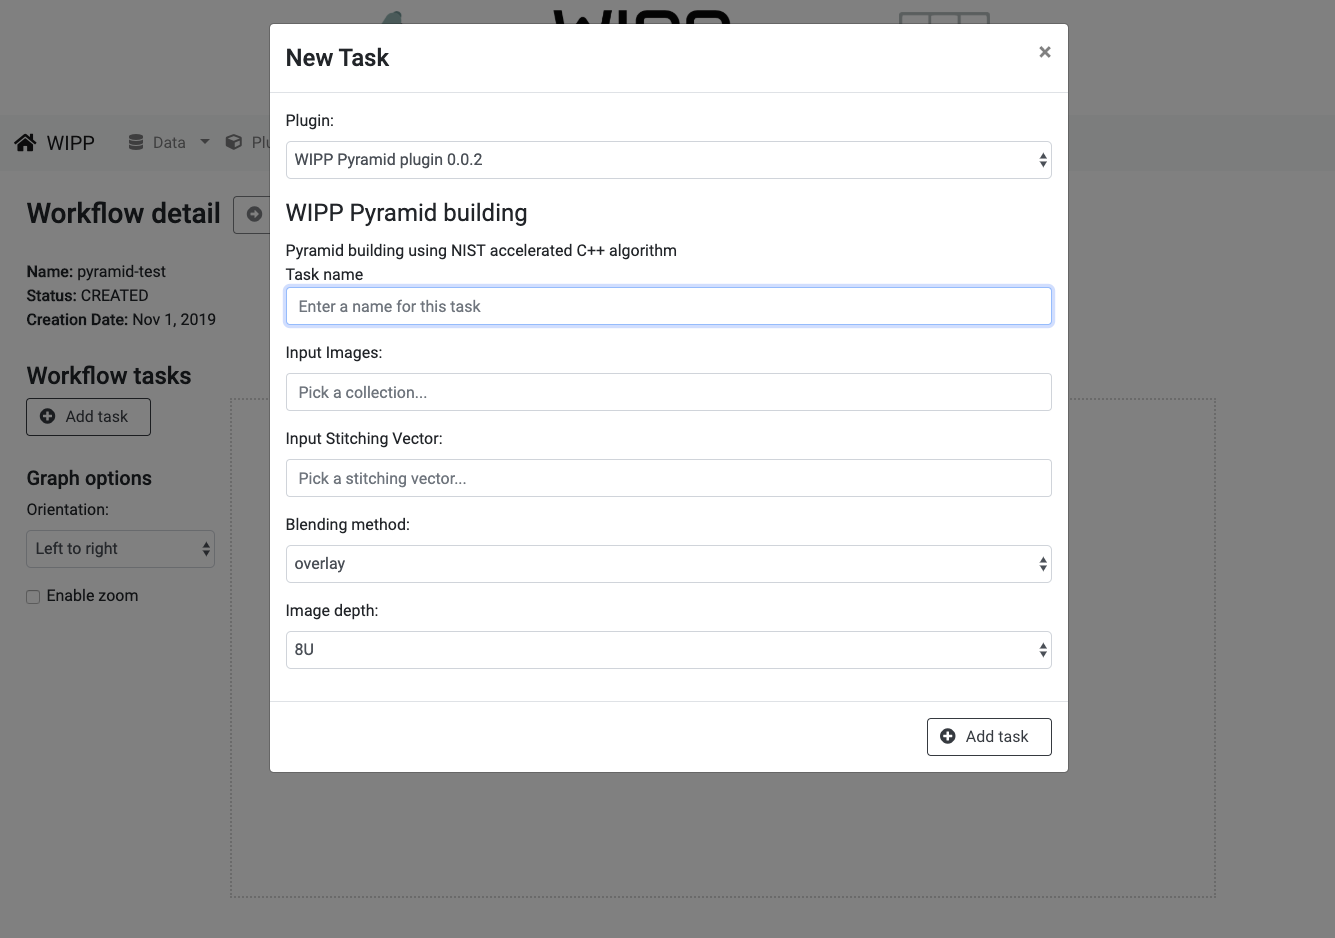
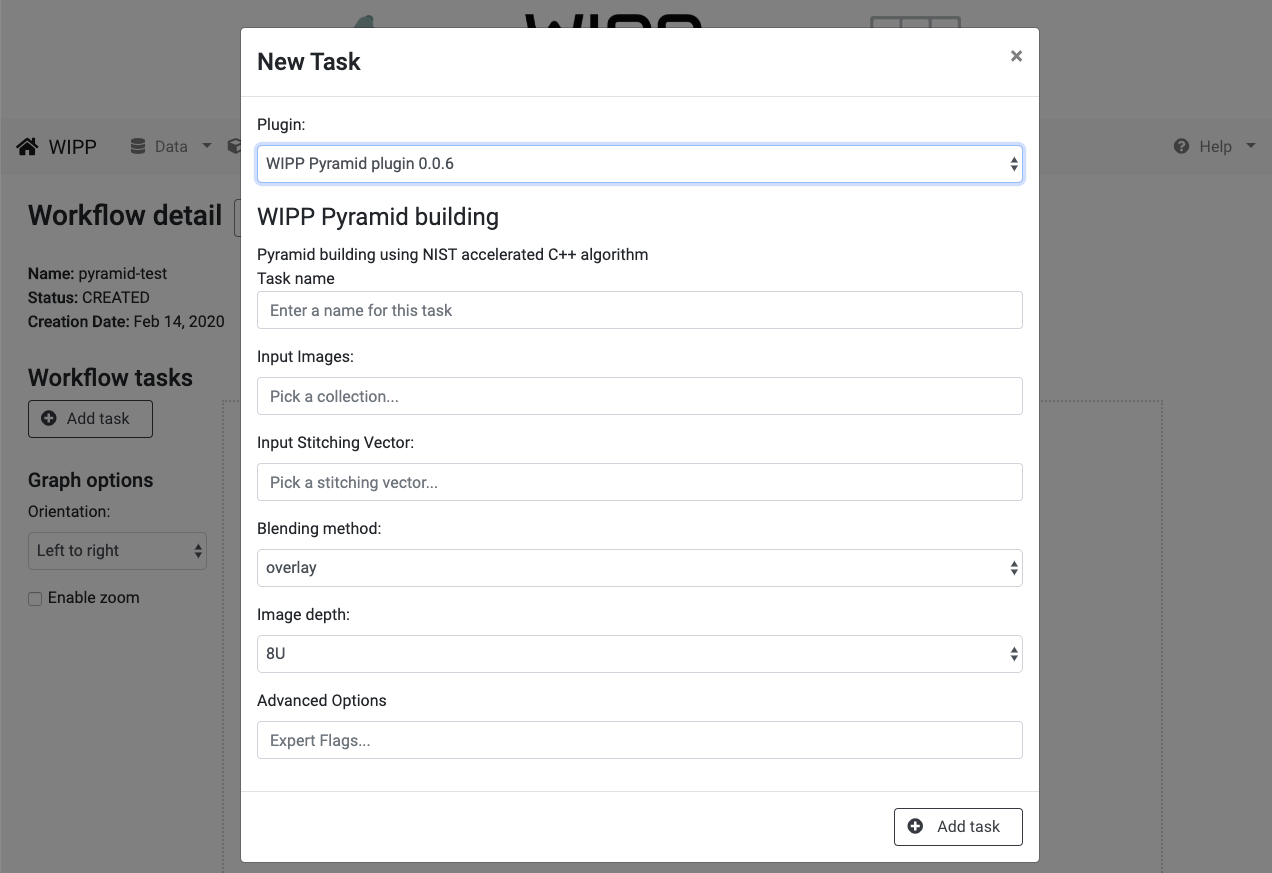
docs: update tutorials

diff --git a/data/PyramidBuilding/README.md b/data/PyramidBuilding/README.md
@@ -60,7 +60,7 @@ Click on "New workflow", fill in the Name field as "pyramid-test" and click on "
 ![](screenshots/new-workflow.png)
 
 
-Click on "Add task" and choose "WIPP Pyramid plugin 0.0.2" in the dropdown list.  
+Click on "Add task" and choose "WIPP Pyramid plugin 0.0.6" in the dropdown list.  
 
 ![](screenshots/add-task.png)
 
@@ -70,6 +70,7 @@ Configure the task as follow:
 - Input Stitching Vector: start typing "pyramid-small-dataset-sv" and select this stitching vector from the list
 - Blending method: select "overlay"
 - Image depth: select "16U"
+- Advanced Options: leave empty
 
 Click on "Add task"
 

diff --git a/data/Thresholding/README.md b/data/Thresholding/README.md
@@ -44,7 +44,7 @@ Click on "Add task" and choose "ThresholdingPlugin 1.0.0" in the dropdown list.
 ![](screenshots/add-task.png)
 
 Configure the task as follow:
-- Task name: ostu
+- Task name: otsu
 - Image Collection: start typing "thresholding-small-dataset" and select this collection from the list
 - Threshold Type: select "Otsu"
 
